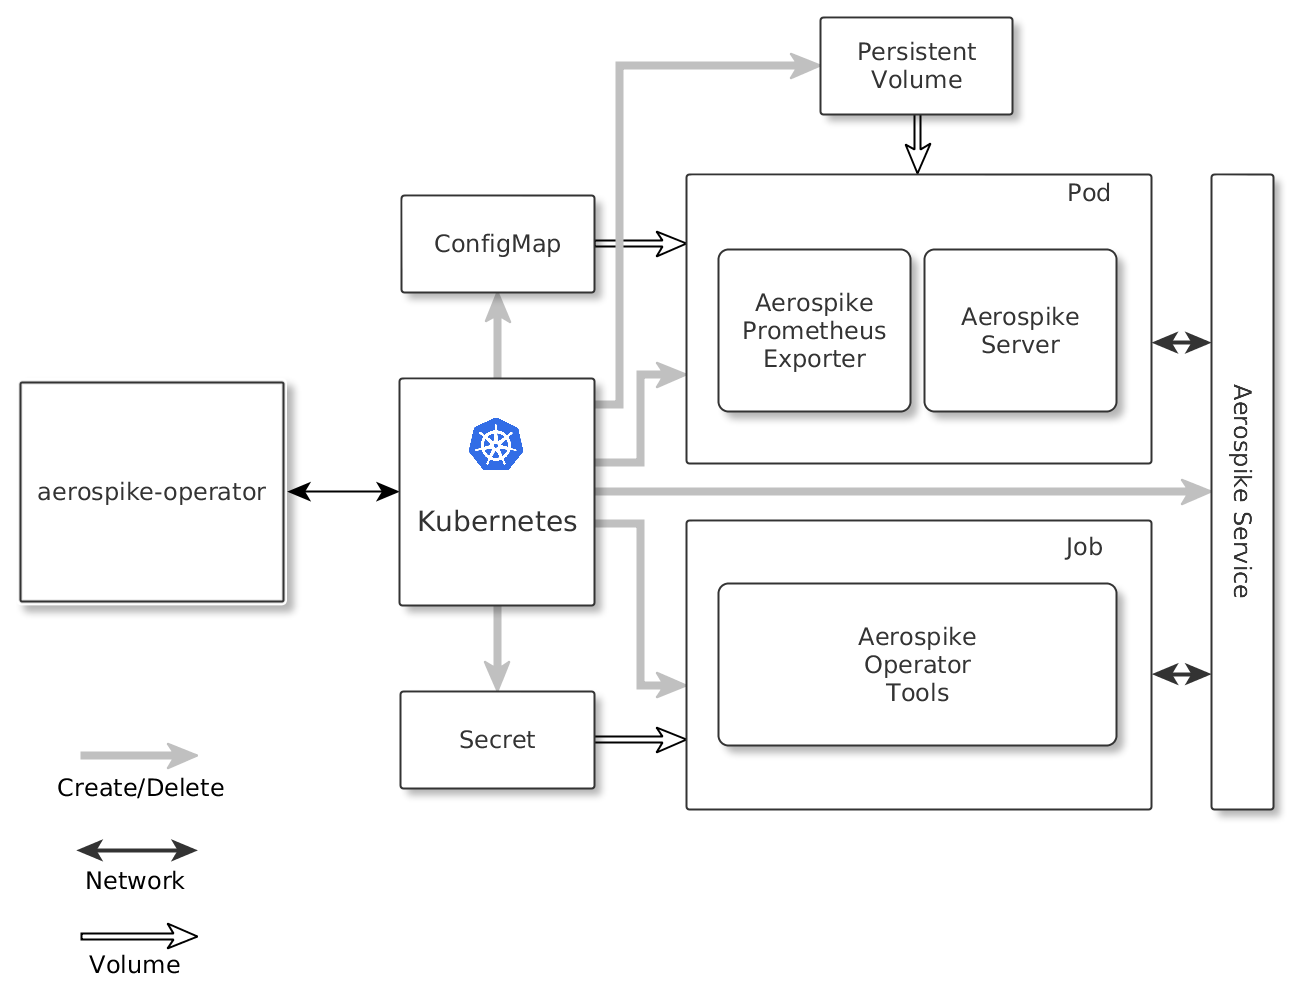
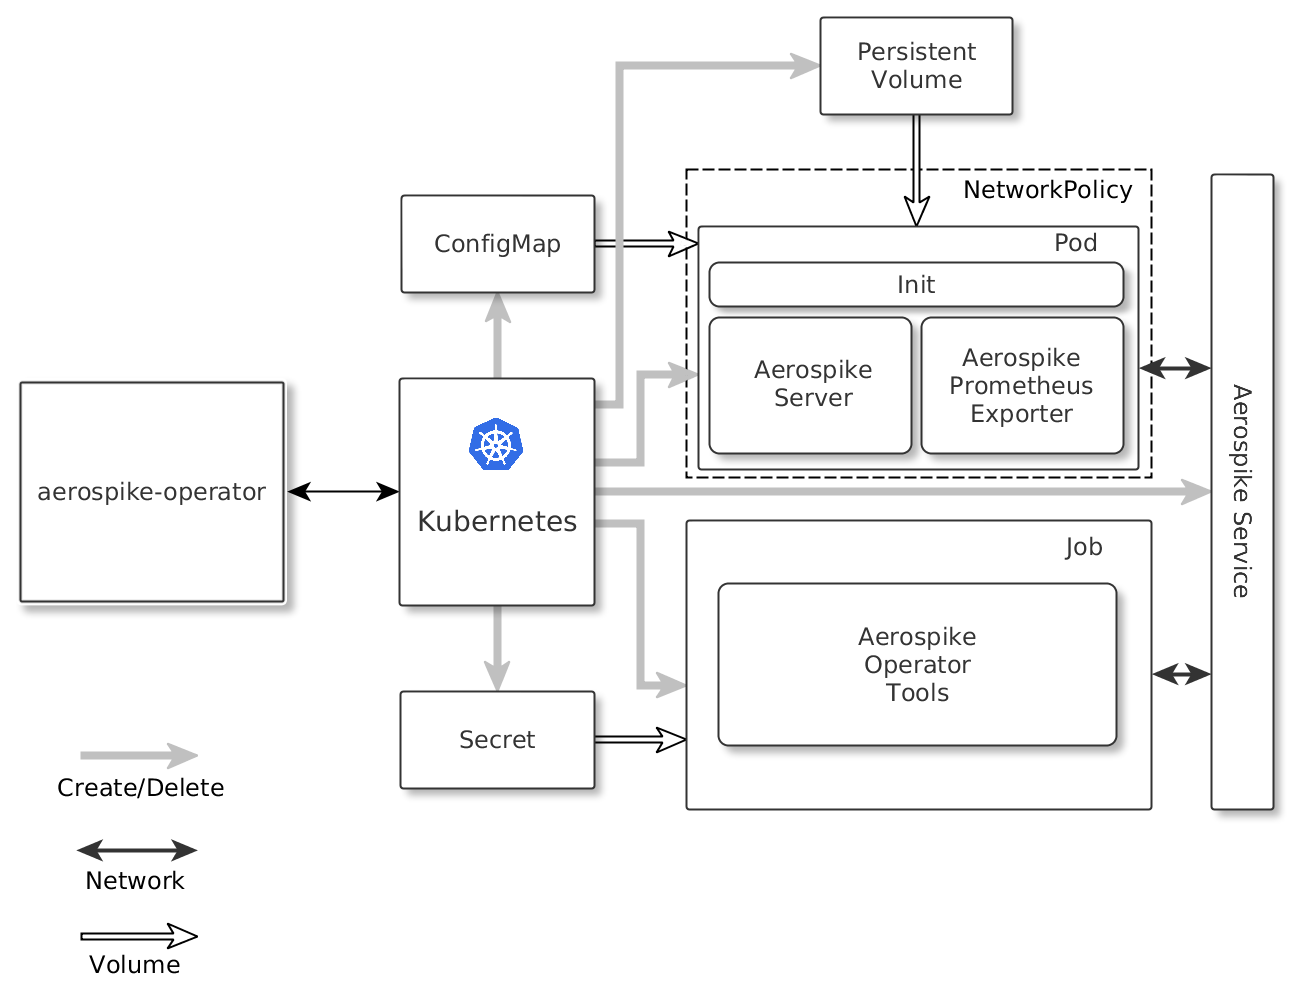
cluster: use stable node ids

Changed region(s): [[0.4961, 0.124, 0.9302, 0.496]]

diff --git a/pkg/reconciler/pod.go b/pkg/reconciler/pod.go
@@ -17,7 +17,11 @@ limitations under the License.
 package reconciler
 
 import (
+	"crypto/md5"
+	"encoding/hex"
 	"fmt"
+	"io"
+	"path"
 	"sort"
 	"strconv"
 	"strings"
@@ -110,7 +114,7 @@ func (r *AerospikeClusterReconciler) ensurePods(aerospikeCluster *aerospikev1alp
 			continue
 		}
 		// check whether the pod needs to be restarted
-		if configMap.Annotations[configMapHashLabel] != pod.Annotations[configMapHashLabel] {
+		if configMap.Annotations[configMapHashAnnotation] != pod.Annotations[configMapHashAnnotation] {
 			if _, err := r.safeRestartPodWithIndex(aerospikeCluster, configMap, i); err != nil {
 				log.WithFields(log.Fields{
 					logfields.AerospikeCluster: meta.Key(aerospikeCluster),
@@ -146,9 +150,25 @@ func (r *AerospikeClusterReconciler) listClusterPods(aerospikeCluster *aerospike
 }
 
 func (r *AerospikeClusterReconciler) createPodWithIndex(aerospikeCluster *aerospikev1alpha1.AerospikeCluster, configMap *v1.ConfigMap, index int) (*v1.Pod, error) {
+	// initialConfigFilePath contains the path to the aerospike.conf file that
+	// will be created as a result of mounting the configmap (i.e. before
+	// templating)
+	initialConfigFilePath := path.Join(initialConfigMountPath, configFileName)
+	// finalConfigFilePath contains the path to the aerospike.conf file that
+	// will be used by the aerospike process (i.e. after templating)
+	finalConfigFilePath := path.Join(finalConfigMountPath, configFileName)
+	// podName contains the name of the pod
+	podName := fmt.Sprintf("%s-%d", aerospikeCluster.Name, index)
+	// nodeId will contain the value used as service.node-id for the pod
+	nodeId, err := computeNodeId(podName)
+	if err != nil {
+		return nil, fmt.Errorf("failed to compute node id for %s: %v", podName, err)
+	}
+
+	// pod represents the pod that will be created
 	pod := &v1.Pod{
 		ObjectMeta: metav1.ObjectMeta{
-			Name: fmt.Sprintf("%s-%d", aerospikeCluster.Name, index),
+			Name: podName,
 			Labels: map[string]string{
 				selectors.LabelAppKey:     selectors.LabelAppVal,
 				selectors.LabelClusterKey: aerospikeCluster.Name,
@@ -165,10 +185,40 @@ func (r *AerospikeClusterReconciler) createPodWithIndex(aerospikeCluster *aerosp
 				},
 			},
 			Annotations: map[string]string{
-				configMapHashLabel: configMap.Annotations[configMapHashLabel],
+				configMapHashAnnotation: configMap.Annotations[configMapHashAnnotation],
+				nodeIdAnnotation:        nodeId,
 			},
 		},
 		Spec: v1.PodSpec{
+			// use a init container to set the value of service.node-id to the
+			// value of nodeId
+			InitContainers: []v1.Container{
+				{
+					Name:  "init",
+					Image: "busybox:1.29.1",
+					Command: []string{
+						"sh",
+						"-c",
+						fmt.Sprintf("sed 's/%s/%s/' %s>%s", serviceNodeIdValue, nodeId, initialConfigFilePath, finalConfigFilePath),
+					},
+					VolumeMounts: []v1.VolumeMount{
+						{
+							Name:      initialConfigVolumeName,
+							MountPath: initialConfigMountPath,
+						},
+						{
+							Name:      finalConfigVolumeName,
+							MountPath: finalConfigMountPath,
+						},
+					},
+					Resources: v1.ResourceRequirements{
+						Requests: v1.ResourceList{
+							v1.ResourceCPU:    resource.MustParse(initContainerCpuRequest),
+							v1.ResourceMemory: resource.MustParse(initContainerMemoryRequest),
+						},
+					},
+				},
+			},
 			Containers: []v1.Container{
 				{
 					Name:  "aerospike-server",
@@ -177,7 +227,7 @@ func (r *AerospikeClusterReconciler) createPodWithIndex(aerospikeCluster *aerosp
 						"/usr/bin/asd",
 						"--foreground",
 						"--config-file",
-						"/opt/aerospike/etc/aerospike.conf",
+						finalConfigFilePath,
 					},
 					Ports: []v1.ContainerPort{
 						{
@@ -199,8 +249,8 @@ func (r *AerospikeClusterReconciler) createPodWithIndex(aerospikeCluster *aerosp
 					},
 					VolumeMounts: []v1.VolumeMount{
 						{
-							Name:      configVolumeName,
-							MountPath: configMountPath,
+							Name:      finalConfigVolumeName,
+							MountPath: finalConfigMountPath,
 						},
 					},
 					ReadinessProbe: &v1.Probe{
@@ -256,13 +306,19 @@ func (r *AerospikeClusterReconciler) createPodWithIndex(aerospikeCluster *aerosp
 			},
 			Volumes: []v1.Volume{
 				{
-					Name: configVolumeName,
+					Name: initialConfigVolumeName,
 					VolumeSource: v1.VolumeSource{
 						ConfigMap: &v1.ConfigMapVolumeSource{
 							LocalObjectReference: v1.LocalObjectReference{
 								Name: configMap.Name,
 							},
 						},
+					},
+				},
+				{
+					Name: finalConfigVolumeName,
+					VolumeSource: v1.VolumeSource{
+						EmptyDir: &v1.EmptyDirVolumeSource{},
 					},
 				},
 			},
@@ -443,7 +499,15 @@ func (r *AerospikeClusterReconciler) safeDeletePodWithIndex(aerospikeCluster *ae
 				}
 			}
 		}()
+		log.WithFields(log.Fields{
+			logfields.AerospikeCluster: pod.Labels[selectors.LabelClusterKey],
+			logfields.Pod:              meta.Key(pod),
+		}).Debug("waiting for migrations to finish")
 		if err := waitForMigrationsToFinishOnPod(pod); err != nil {
+			log.WithFields(log.Fields{
+				logfields.AerospikeCluster: pod.Labels[selectors.LabelClusterKey],
+				logfields.Pod:              meta.Key(pod),
+			}).Error("failed to wait for migrations to finish")
 			return err
 		}
 		close(done)
@@ -478,4 +542,18 @@ func computeMemoryRequest(aerospikeCluster *aerospikev1alpha1.AerospikeCluster) 
 		sum += s
 	}
 	return resource.MustParse(fmt.Sprintf("%dGi", sum))
+}
+
+// computeNodeId computes the value to be used as the id of the aerospike node
+// that corresponds to podName.
+func computeNodeId(podName string) (string, error) {
+	// calculate the md5 hash of podName
+	podHash := md5.New()
+	_, err := io.WriteString(podHash, podName)
+	if err != nil {
+		return "", err
+	}
+	// an aerospike node's id cannot exceed 16 characters, so return the first
+	// 16 characters of the hash. this should be unique enough.
+	return hex.EncodeToString(podHash.Sum(nil))[0:16], nil
 }

diff --git a/pkg/reconciler/constants.go b/pkg/reconciler/constants.go
@@ -22,8 +22,20 @@ import (
 )
 
 const (
-	configVolumeName = "config"
-	configMountPath  = "/opt/aerospike/etc/"
+	// the name of the volume that will contain the original aerospike.conf
+	// created as a result of mounting the configmap (i.e. before templating)
+	initialConfigVolumeName = "aerospike-conf-src"
+	// the mount path of the volume that will contain the initial
+	// aerospike.conf created as a result of mounting the configmap
+	initialConfigMountPath = "/aerospike-conf-src"
+	// the name of the volume that will contain the final aerospike.conf file
+	// (i.e. after templating)
+	finalConfigVolumeName = "aerospike-conf"
+	// the mount path of the volume that will contain the final aerospike.conf
+	// file (i.e. after templating)
+	finalConfigMountPath = "/aerospike-conf"
+	// the name of the aerospike.conf file
+	configFileName = "aerospike.conf"
 
 	namespaceVolumePrefix = "data-ns"
 
@@ -43,10 +55,17 @@ const (
 
 	podOperationFeedbackPeriod = 2 * time.Minute
 
-	configMapHashLabel = "configMapHash"
+	// the name of the annotation that holds the hash of the mounted configmap
+	configMapHashAnnotation = "aerospike.travelaudience.com/config-map-hash"
+	// the name of the annotation that holds the aerospike node id
+	nodeIdAnnotation = "aerospike.travelaudience.com/node-id"
 
-	configFileName = "aerospike.conf"
-
+	// the name of the key that corresponds to the service.node-id property
+	// (used for templating)
+	serviceNodeIdKey = "nodeId"
+	// the value of the key that corresponds to the service.node-id property
+	// (used for templating)
+	serviceNodeIdValue    = "__SERVICE__NODE_ID__"
 	clusterMeshServiceKey = "meshAddress"
 	clusterMeshPortKey    = "meshPort"
 	clusterNamespacesKey  = "namespaces"
@@ -73,6 +92,11 @@ const (
 	asReadinessTimeoutSeconds      = 2
 	asReadinessPeriodSeconds       = 10
 	asReadinessFailureThreshold    = 3
+
+	// the cpu request for the init container
+	initContainerCpuRequest = "10m"
+	// the memory request for the init container
+	initContainerMemoryRequest = "32Mi"
 
 	// UpgradeStatusAnnotationKey is the name of the annotation added to
 	// AerospikeCluster resources that are being upgraded.
@@ -101,6 +125,7 @@ service {
 	transaction-queues 4
 	transaction-threads-per-queue 4
 	proto-fd-max 15000
+	node-id {{.nodeId}}
 }
 
 logging {

diff --git a/pkg/reconciler/podutils.go b/pkg/reconciler/podutils.go
@@ -23,12 +23,10 @@ import (
 	"time"
 
 	as "github.com/aerospike/aerospike-client-go"
-	log "github.com/sirupsen/logrus"
 	"k8s.io/api/core/v1"
 	"k8s.io/apimachinery/pkg/watch"
 	podutil "k8s.io/kubernetes/pkg/api/v1/pod"
 
-	"github.com/travelaudience/aerospike-operator/pkg/logfields"
 	"github.com/travelaudience/aerospike-operator/pkg/meta"
 	"github.com/travelaudience/aerospike-operator/pkg/utils/listoptions"
 	"github.com/travelaudience/aerospike-operator/pkg/utils/selectors"
@@ -89,12 +87,14 @@ func podHasMigrationsInProgress(pod *v1.Pod) (bool, error) {
 		return false, err
 	}
 	defer client.Close()
-	for _, node := range client.GetNodes() {
-		if node.GetHost().Name == pod.Status.PodIP {
+	// try to find the current node by its id/name
+	for _, node := range client.Cluster().GetNodes() {
+		// node.GetName returns an upper-case string, so we must ignore case
+		if strings.EqualFold(node.GetName(), pod.Annotations[nodeIdAnnotation]) {
 			return node.MigrationInProgress()
 		}
 	}
-	return false, nil
+	return false, fmt.Errorf("failed to find node %s in the cluster", pod.Annotations[nodeIdAnnotation])
 }
 
 func waitForMigrationsToFinishOnPod(pod *v1.Pod) error {
@@ -103,16 +103,14 @@ func waitForMigrationsToFinishOnPod(pod *v1.Pod) error {
 		return err
 	}
 	defer client.Close()
-	for _, node := range client.GetNodes() {
-		if node.GetHost().Name == pod.Status.PodIP {
-			log.WithFields(log.Fields{
-				logfields.AerospikeCluster: pod.Labels[selectors.LabelClusterKey],
-				logfields.Pod:              meta.Key(pod),
-			}).Debug("waiting for migrations to finish")
+	// try to find the current node by its id/name
+	for _, node := range client.Cluster().GetNodes() {
+		// node.GetName returns an upper-case string, so we must ignore case
+		if strings.EqualFold(node.GetName(), pod.Annotations[nodeIdAnnotation]) {
 			return node.WaitUntillMigrationIsFinished(waitMigrationsTimeout)
 		}
 	}
-	return nil
+	return fmt.Errorf("failed to find node %s in the cluster", pod.Annotations[nodeIdAnnotation])
 }
 
 func getAerospikeServerVersionFromPod(pod *v1.Pod) (string, error) {

diff --git a/pkg/reconciler/configmap.go b/pkg/reconciler/configmap.go
@@ -63,8 +63,8 @@ func (r *AerospikeClusterReconciler) updateConfigMap(aerospikeCluster *aerospike
 		return nil, err
 	}
 	// check whether the current configmap resource needs to be updated
-	outdated := asstrings.Hash(currentConfigMap.Data[configFileName]) != currentConfigMap.Annotations[configMapHashLabel] ||
-		desiredConfigMap.Annotations[configMapHashLabel] != currentConfigMap.Annotations[configMapHashLabel]
+	outdated := asstrings.Hash(currentConfigMap.Data[configFileName]) != currentConfigMap.Annotations[configMapHashAnnotation] ||
+		desiredConfigMap.Annotations[configMapHashAnnotation] != currentConfigMap.Annotations[configMapHashAnnotation]
 	// if the configmap is up-to-date, we're good to go
 	if !outdated {
 		log.WithFields(log.Fields{
@@ -128,7 +128,7 @@ func buildConfigMap(aerospikeCluster *aerospikev1alpha1.AerospikeCluster) *v1.Co
 				},
 			},
 			Annotations: map[string]string{
-				configMapHashLabel: asstrings.Hash(aerospikeConfig),
+				configMapHashAnnotation: asstrings.Hash(aerospikeConfig),
 			},
 		},
 		Data: map[string]string{configFileName: aerospikeConfig},
@@ -137,6 +137,7 @@ func buildConfigMap(aerospikeCluster *aerospikev1alpha1.AerospikeCluster) *v1.Co
 
 func getClusterProps(aerospikeCluster *aerospikev1alpha1.AerospikeCluster, namespacesConfig []string) map[string]interface{} {
 	return map[string]interface{}{
+		serviceNodeIdKey:      serviceNodeIdValue,
 		clusterMeshServiceKey: aerospikeCluster.Name,
 		clusterMeshPortKey:    heartbeatPort,
 		clusterNamespacesKey:  namespacesConfig,

diff --git a/test/e2e/cluster/podrestart.go b/test/e2e/cluster/podrestart.go
@@ -114,3 +114,35 @@ func testNoDataLossAfterRestartAndScaleDown(tf *framework.TestFramework, ns *v1.
 	Expect(err).NotTo(HaveOccurred())
 	c2.Close()
 }
+
+func testNodeIDsAfterRestart(tf *framework.TestFramework, ns *v1.Namespace, nodeCount int32) {
+	aerospikeCluster := tf.NewAerospikeClusterWithDefaults()
+	aerospikeCluster.Spec.NodeCount = nodeCount
+	asc, err := tf.AerospikeClient.AerospikeV1alpha1().AerospikeClusters(ns.Name).Create(&aerospikeCluster)
+	Expect(err).NotTo(HaveOccurred())
+
+	err = tf.WaitForClusterNodeCount(asc, nodeCount)
+	Expect(err).NotTo(HaveOccurred())
+
+	c1, err := framework.NewAerospikeClient(asc)
+	Expect(err).NotTo(HaveOccurred())
+	nodeNamesBeforeRestart := c1.GetNodeNames()
+	c1.Close()
+
+	err = tf.ChangeNamespaceMemorySizeAndScaleClusterAndWait(asc, 4, nodeCount)
+
+	c2, err := framework.NewAerospikeClient(asc)
+	Expect(err).NotTo(HaveOccurred())
+	nodeNamesAfterRestart := c2.GetNodeNames()
+	c2.Close()
+
+	for _, node := range nodeNamesBeforeRestart {
+		found := false
+		for _, newNode := range nodeNamesAfterRestart {
+			if node == newNode {
+				found = true
+			}
+		}
+		Expect(found).To(Equal(true))
+	}
+}

diff --git a/test/e2e/cluster/e2e.go b/test/e2e/cluster/e2e.go
@@ -114,5 +114,8 @@ var _ = Describe("AerospikeCluster", func() {
 		It("does not lose data in a namespace after an upgrade and makes automatic backup of namespaces before upgrade", func() {
 			testNoDataLossOnAerospikeUpgrade(tf, ns, 2, 10000, "4.2.0.3", "4.2.0.4")
 		})
+		It("node IDs are kept after restart", func() {
+			testNodeIDsAfterRestart(tf, ns, 2)
+		})
 	})
 })

diff --git a/test/e2e/framework/asutils.go b/test/e2e/framework/asutils.go
@@ -94,3 +94,7 @@ func (ac *AerospikeClient) ReadSequentialIntegers(asNamespace string, n int) err
 	}
 	return nil
 }
+
+func (ac *AerospikeClient) GetNodeNames() []string {
+	return ac.client.GetNodeNames()
+}
